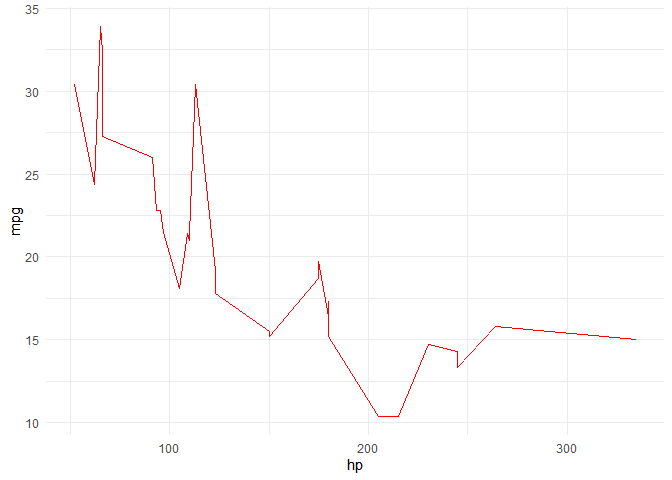
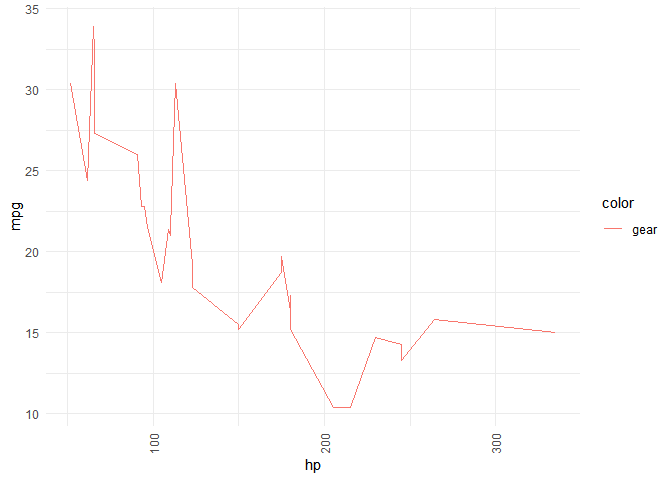
Fixed errors in the README file

diff --git a/README.md b/README.md
@@ -42,7 +42,7 @@ barplot in the plot window using ggplot2. Users can customize the fill
 color and pass additional arguments like width, alpha, etc.
 
 ``` r
-easy_barplot(mtcars, x = "cyl", fill = "gear")
+easy_barplot(mtcars, x = "cyl", y = "wt", stat = "identity", fill = "gear")
 ```
 
 <img src="man/figures/README-unnamed-chunk-3-1.png" width="100%" />
@@ -64,7 +64,7 @@ customize a color and add extra ggplot2 arguments like width, alpha,
 etc.
 
 ``` r
-easy_boxplot(mtcars, x = "cyl", y = "mpg", color = "blue")
+easy_boxplot(mtcars, x = "cyl", y = "mpg", color = "gear")
 ```
 
 <img src="man/figures/README-unnamed-chunk-5-1.png" width="100%" />
@@ -74,7 +74,7 @@ line plot in the plot window using ggplot2. Users can customize the line
 color and pass additional arguments such as size, linetype, etc.
 
 ``` r
-easy_lineplot(mtcars, x = "hp", y = "mpg", color = "red")
+easy_lineplot(mtcars, x = "hp", y = "mpg", color = "gear")
 ```
 
 <img src="man/figures/README-unnamed-chunk-6-1.png" width="100%" />
